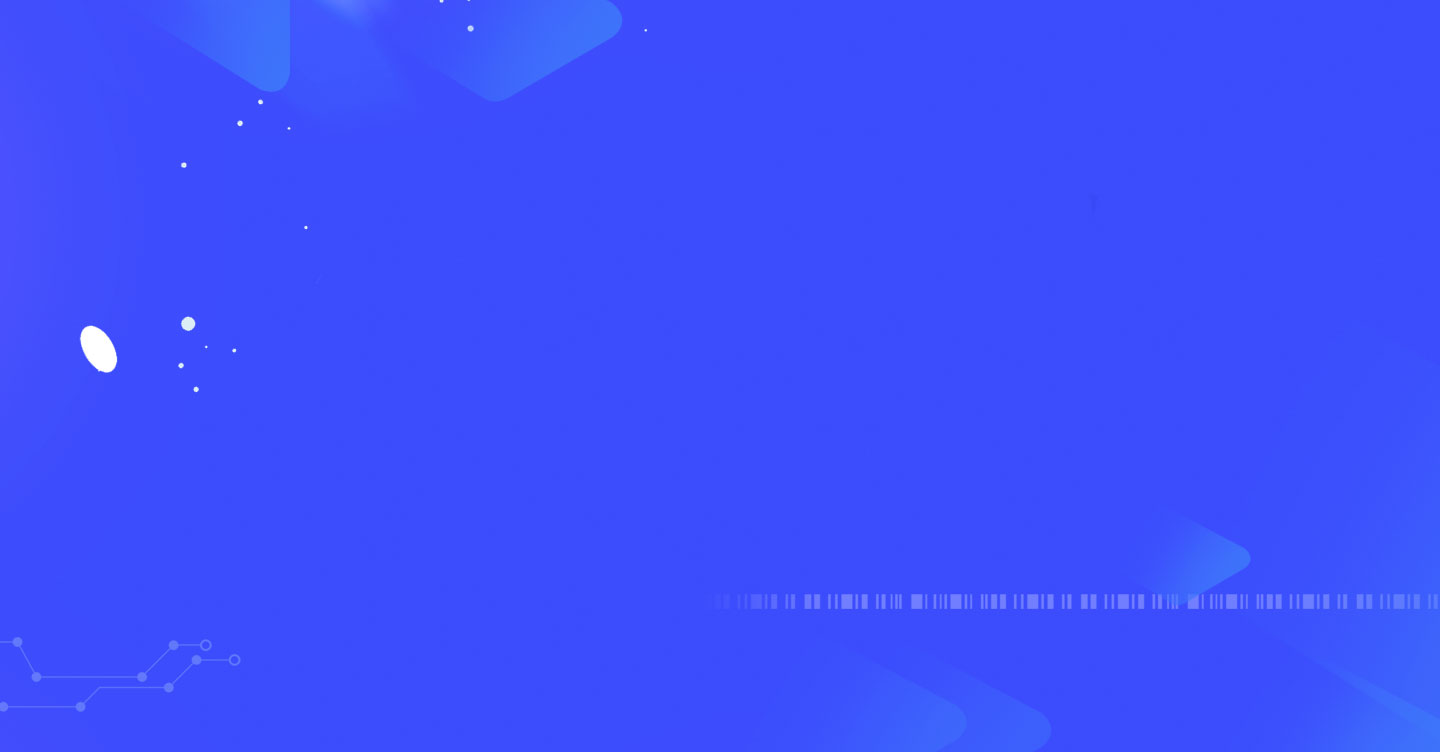
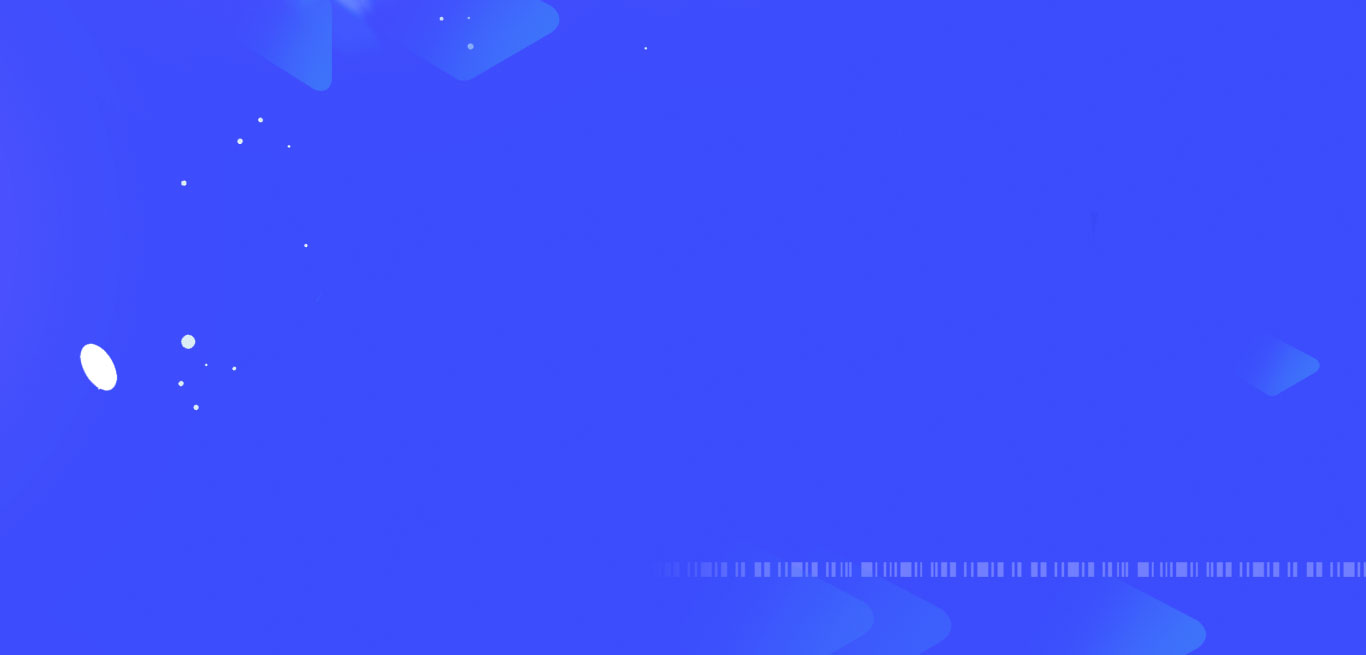
modified data-login

diff --git a/data-login/css/container.css b/data-login/css/container.css
@@ -1,2 +1,2 @@
-body,button,input,select,textarea{font-family:Tahoma,Helvetica,'\5FAE\8F6F\96C5\9ED1',Arial,sans-serif;color:#666}body,div,h1,h2,h3,h4,h5,h6,dl,dt,dd,ul,ol,li,th,td,p,blockquote,pre,form,fieldset,legend,input,button,textarea,article,aside,footer,header,hgroup,nav,section,menu,figure,figcaption,dialog{margin:0;padding:0}table{border-collapse:collapse;border-spacing:0}h1,h2,h3,h4,h5,h6{font-weight:normal}li{list-style:none}fieldset,img,dialog{border:0;vertical-align:middle}input,textarea{outline-style:none}textarea{resize:none}article,aside,footer,header,hgroup,nav,section,menu{display:block}address,caption,cite,code,dfn,em,i,th,var{font-style:normal;font-weight:400}a{text-decoration:none;outline:none;color:#666}a:hover{text-decoration:none}.clearfix:after{content:"";display:block;height:0;clear:both;visibility:hidden}.clearfix{zoom:1}.clear{overflow:hidden;zoom:1}.clr{clear:both !important}.icon{display:inline-block;vertical-align:middle;*vertical-align:auto;zoom:1;*display:inline;background:none no-repeat center;width:0;height:0}.inp-txt{border:1px solid #ddd;padding-left:59px;background:url("../images/icon-user.png") no-repeat 21px center;width:416px;height:50px;line-height:50px;box-sizing:border-box;border-radius:10px;margin-bottom:10px;font-size:14px}.inp-txt.inp-password{background-image:url("../images/icon-password.png")}.inp-txt.inp-testcode{background-image:url("../images/icon-testcode.png")}.page-index{font-size:14px;color:#999}#header{height:58px;line-height:58px;background-color:#fff;overflow:hidden;width:1200px;margin:auto}#header .logo{background:url("../images/logo.png") no-repeat left center;width:76px;height:40px;display:inline-block;vertical-align:middle;*vertical-align:auto;zoom:1;*display:inline;background-size:100%;margin-left:3px}#header .slogn{font-size:16px;font-weight:bold;color:#7e7e7e;margin-left:26px;display:inline-block;vertical-align:middle;*vertical-align:auto;zoom:1;*display:inline}#header .menu{color:#1c21c4;float:right}#header .menu>a{color:#1c21c4}#footer{background-color:#fff;color:#000;font-size:12px;text-align:center;line-height:58px;height:58px}.contents-box{background:url("../images/banner-01.jpg") no-repeat center #3f4efd}.contents{background:url("../images/banner.jpg") no-repeat center;width:1200px;margin:auto;height:752px;position:relative}.contents:before{content:'';display:block;width:702px;height:529px;background:url("../images/banner-01.png") center no-repeat;position:absolute;left:0;top:50%;margin-top:-244px;z-index:1}.login-content{background-color:#fff;width:464px;border-radius:10px;position:absolute;top:50%;right:0%;margin-top:-209px;box-sizing:border-box;padding:55px 25px 25px;text-align:center;z-index:10}.login-content:before{content:'';display:block;border-radius:100%;width:140px;height:140px;background:url("../images/logo.png") no-repeat center #fff;margin:-125px 0 0 -70px;left:50%;position:absolute}.login-content .title{text-align:center;position:relative;z-index:2;margin-bottom:23px;font-size:24px;color:#333;font-weight:normal}.login-content .testcoed{margin-bottom:15px}.login-content .testcoed .inp-txt{width:320px;margin-bottom:0}.login-content .testcoed .btn-testcode{display:inline-block;vertical-align:middle;*vertical-align:auto;zoom:1;*display:inline;width:86px;height:50px;line-height:50px;box-sizing:border-box;border-radius:10px;border:1px solid #ddd;margin-left:8px;cursor:pointer}.login-content .elsebtn{display:flex;justify-content:space-between;margin-bottom:18px}.login-content .elsebtn #inp-checkbox{margin-top:-3px}.login-content .elsebtn .forget-password{color:#999}.login-content .elsebtn label{cursor:pointer}.login-content .inp-submit{display:block;width:366px;height:60px;line-height:60px;color:#fff;font-size:24px;border-radius:30px;margin:0 auto 18px;box-shadow:0 0 20px rgba(100,175,255,0.59);background:linear-gradient(90deg, #1b20c3, #334ff4);border:none 0;cursor:pointer}.login-content .btn-registered{color:#999}
+body,button,input,select,textarea{font-family:Tahoma,Helvetica,'\5FAE\8F6F\96C5\9ED1',Arial,sans-serif;color:#666}body,div,h1,h2,h3,h4,h5,h6,dl,dt,dd,ul,ol,li,th,td,p,blockquote,pre,form,fieldset,legend,input,button,textarea,article,aside,footer,header,hgroup,nav,section,menu,figure,figcaption,dialog{margin:0;padding:0}table{border-collapse:collapse;border-spacing:0}h1,h2,h3,h4,h5,h6{font-weight:normal}li{list-style:none}fieldset,img,dialog{border:0;vertical-align:middle}input,textarea{outline-style:none}textarea{resize:none}article,aside,footer,header,hgroup,nav,section,menu{display:block}address,caption,cite,code,dfn,em,i,th,var{font-style:normal;font-weight:400}a{text-decoration:none;outline:none;color:#666}a:hover{text-decoration:none}.clearfix:after{content:"";display:block;height:0;clear:both;visibility:hidden}.clearfix{zoom:1}.clear{overflow:hidden;zoom:1}.clr{clear:both !important}.icon{display:inline-block;vertical-align:middle;*vertical-align:auto;zoom:1;*display:inline;background:none no-repeat center;width:0;height:0}input::-webkit-input-placeholder{color:#999}input::-moz-placeholder{color:#999}input:-moz-placeholder{color:#999}input:-ms-input-placeholder{color:#999}.inp-txt{border:1px solid #ddd;padding-left:59px;background:url("../images/icon-user.png") no-repeat 21px center;width:322px;height:40px;line-height:40px;box-sizing:border-box;border-radius:10px;margin-bottom:10px;font-size:14px}.inp-txt.inp-password{background-image:url("../images/icon-password.png")}.inp-txt.inp-testcode{background-image:url("../images/icon-testcode.png")}.page-index{font-size:14px;color:#999}#header{height:58px;line-height:58px;background-color:#fff;overflow:hidden;width:1126px;margin:auto}#header .logo{background:url("../images/logo.png") no-repeat left center;width:76px;height:40px;display:inline-block;vertical-align:middle;*vertical-align:auto;zoom:1;*display:inline;background-size:100%;margin-left:3px}#header .slogn{font-size:14px;font-weight:bold;color:#7e7e7e;margin-left:26px;display:inline-block;vertical-align:middle;*vertical-align:auto;zoom:1;*display:inline}#header .menu{color:#1c21c4;float:right}#header .menu>a{color:#1c21c4}#footer{background-color:#fff;color:#000;font-size:12px;text-align:center;line-height:58px;height:58px}.contents-box{background:url("../images/banner-01.jpg") no-repeat center #3f4efd}.contents{background:url("../images/banner.jpg") no-repeat center;width:1126px;margin:auto;height:655px;position:relative}.contents:before{content:'';display:block;width:588px;height:443px;background:url("../images/banner-01.png") center no-repeat;background-size:100%;position:absolute;left:0;top:50%;margin-top:-177px;z-index:1}.login-content{background-color:#fff;width:390px;border-radius:10px;position:absolute;top:50%;right:0%;margin-top:-181px;box-sizing:border-box;padding:30px 25px 25px;text-align:center;z-index:10}.login-content:before{content:'';display:block;border-radius:100%;width:140px;height:140px;background:url("../images/logo.png") no-repeat center 23px #fff;margin:-98px 0 0 -70px;left:50%;position:absolute}.login-content .title{text-align:center;position:relative;z-index:2;margin-bottom:16px;font-size:20px;color:#333;font-weight:normal}.login-content .testcoed{margin-bottom:10px}.login-content .testcoed .inp-txt{width:242px;margin-bottom:0}.login-content .testcoed .btn-testcode{display:inline-block;vertical-align:middle;*vertical-align:auto;zoom:1;*display:inline;width:70px;height:40px;line-height:40px;box-sizing:border-box;border-radius:10px;border:1px solid #ddd;margin-left:8px;cursor:pointer}.login-content .elsebtn{display:flex;justify-content:space-between;margin:0 15px 18px}.login-content .elsebtn #inp-checkbox{margin-top:-3px}.login-content .elsebtn .forget-password{color:#999}.login-content .elsebtn label{cursor:pointer}.login-content .inp-submit{display:block;width:263px;height:35px;line-height:35pxv;color:#fff;font-size:18px;border-radius:16px;margin:0 auto 10px;box-shadow:0 0 20px rgba(100,175,255,0.59);background:linear-gradient(90deg, #1b20c3, #334ff4);border:none 0;cursor:pointer}.login-content .btn-registered{color:#999}
 /*# sourceMappingURL=container.css.map */

diff --git a/data-login/scss/container.scss b/data-login/scss/container.scss
@@ -20,7 +20,19 @@ $main-title:#7e7e7e;
 .icon{ @include inline-block; background: none no-repeat center; width: 0; height: 0;
   
 }
-.inp-txt{ border: 1px solid $main-border; padding-left: 59px; background: url('../images/icon-user.png') no-repeat 21px center; width: 416px; height: 50px; line-height: 50px; box-sizing: border-box; border-radius: 10px; margin-bottom: 10px; font-size: 14px;
+input::-webkit-input-placeholder{
+  color:$main-font;
+}
+input::-moz-placeholder{   /* Mozilla Firefox 19+ */
+  color:$main-font;
+}
+input:-moz-placeholder{    /* Mozilla Firefox 4 to 18 */
+  color:$main-font;
+}
+input:-ms-input-placeholder{  /* Internet Explorer 10-11 */ 
+  color:$main-font;
+}
+.inp-txt{ border: 1px solid $main-border; padding-left: 59px; background: url('../images/icon-user.png') no-repeat 21px center; width:322px; height: 40px; line-height: 40px; box-sizing: border-box; border-radius: 10px; margin-bottom: 10px; font-size: 14px;
   &.inp-password{ background-image: url('../images/icon-password.png');}
   &.inp-testcode{ background-image: url('../images/icon-testcode.png')}
 }
@@ -28,31 +40,31 @@ $main-title:#7e7e7e;
 //page
 .page-index{ font-size: 14px; color: $main-font;}
 
-#header{ height: 58px; line-height: 58px; background-color: #fff; overflow: hidden; width: 1200px; margin: auto;
+#header{ height: 58px; line-height: 58px; background-color: #fff; overflow: hidden; width: 1126px; margin: auto;
   .logo{ background: url('../images/logo.png') no-repeat left center; width: 76px; height: 40px; @include inline-block; background-size: 100%; margin-left: 3px;}
-  .slogn{ font-size: 16px; font-weight: bold; color: $main-title;  margin-left: 26px; @include inline-block;}
+  .slogn{ font-size: 14px; font-weight: bold; color: $main-title;  margin-left: 26px; @include inline-block;}
   .menu{ color: $main-color; float: right; 
     >a{ color:$main-color;}
   }
 }
 #footer{ background-color: #fff; color: #000; font-size: 12px; text-align: center; line-height: 58px; height: 58px;}
 .contents-box{ background: url('../images/banner-01.jpg') no-repeat center #3f4efd;}
-.contents{ background: url('../images/banner.jpg') no-repeat center; width: 1200px; margin: auto; height: 752px; position: relative;
-  &:before{ content: ''; display: block; width: 702px; height: 529px; background:url( '../images/banner-01.png') center no-repeat; position: absolute; left: 0; top: 50%; margin-top: -244px; z-index: 1;} 
+.contents{ background: url('../images/banner.jpg') no-repeat center; width: 1126px; margin: auto; height: 655px; position: relative;
+  &:before{ content: ''; display: block; width: 588px; height: 443px; background:url( '../images/banner-01.png') center no-repeat; background-size: 100%; position: absolute; left: 0; top: 50%; margin-top: -177px; z-index: 1;} 
 }
 
-.login-content{ background-color: #fff; width: 464px; border-radius: 10px; position: absolute; top: 50%; right: 0%; margin-top: -209px; box-sizing: border-box; padding:55px 25px 25px; text-align: center; z-index: 10;
-  &:before{ content: ''; display: block; border-radius: 100%; width: 140px; height: 140px; background: url('../images/logo.png') no-repeat center #fff;  margin:-125px 0 0 -70px; left: 50%; position: absolute;} 
-  .title{ text-align: center; position: relative; z-index: 2; margin-bottom: 23px; font-size: 24px; color: #333; font-weight: normal;}
-  .testcoed{ margin-bottom: 15px;
-    .inp-txt{ width: 320px; margin-bottom: 0;}
-    .btn-testcode{ @include inline-block; width: 86px;height: 50px; line-height: 50px; box-sizing: border-box; border-radius: 10px; border: 1px solid $main-border; margin-left: 8px; cursor: pointer;}
+.login-content{ background-color: #fff; width: 390px; border-radius: 10px; position: absolute; top: 50%; right: 0%; margin-top: -181px; box-sizing: border-box; padding:30px 25px 25px; text-align: center; z-index: 10;
+  &:before{ content: ''; display: block; border-radius: 100%; width: 140px; height: 140px; background: url('../images/logo.png') no-repeat center 23px #fff;  margin:-98px 0 0 -70px; left: 50%; position: absolute;} 
+  .title{ text-align: center; position: relative; z-index: 2; margin-bottom: 16px; font-size: 20px; color: #333; font-weight: normal;}
+  .testcoed{ margin-bottom: 10px;
+    .inp-txt{ width: 242px; margin-bottom: 0;}
+    .btn-testcode{ @include inline-block; width: 70px;height: 40px; line-height: 40px; box-sizing: border-box; border-radius: 10px; border: 1px solid $main-border; margin-left: 8px; cursor: pointer;}
   }
-  .elsebtn{ display: flex; justify-content: space-between; margin-bottom: 18px;
+  .elsebtn{ display: flex; justify-content: space-between; margin:0 15px 18px;
     #inp-checkbox{ margin-top: -3px;}
     .forget-password{ color: $main-font;}
     label{ cursor: pointer;}
   }
-  .inp-submit{ display: block; width: 366px; height: 60px; line-height: 60px; color: #fff; font-size: 24px; border-radius: 30px; margin:0 auto 18px; box-shadow: 0 0 20px rgba($color: #64afff, $alpha: .59); background: linear-gradient(90deg, #1b20c3, #334ff4); border:none 0; cursor: pointer;}
+  .inp-submit{ display: block; width: 263px; height: 35px; line-height: 35pxv; color: #fff; font-size: 18px; border-radius: 16px; margin:0 auto 10px; box-shadow: 0 0 20px rgba($color: #64afff, $alpha: .59); background: linear-gradient(90deg, #1b20c3, #334ff4); border:none 0; cursor: pointer;}
   .btn-registered{color: $main-font;}
 }
